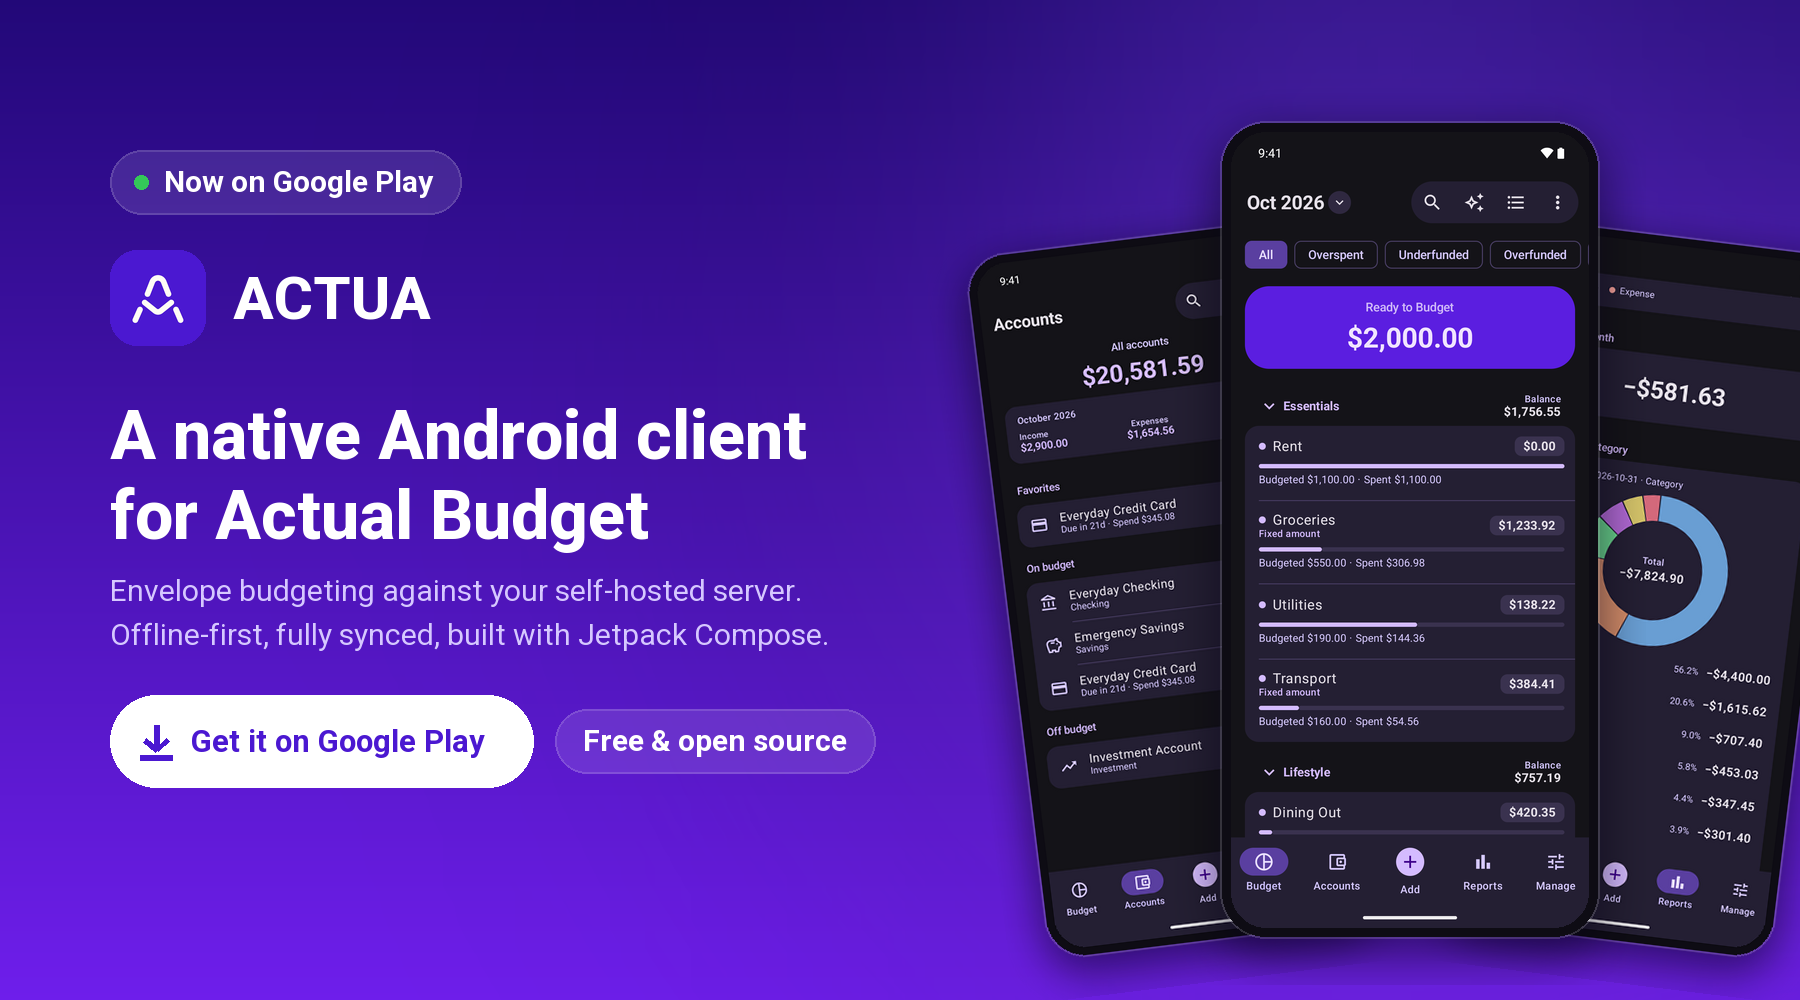
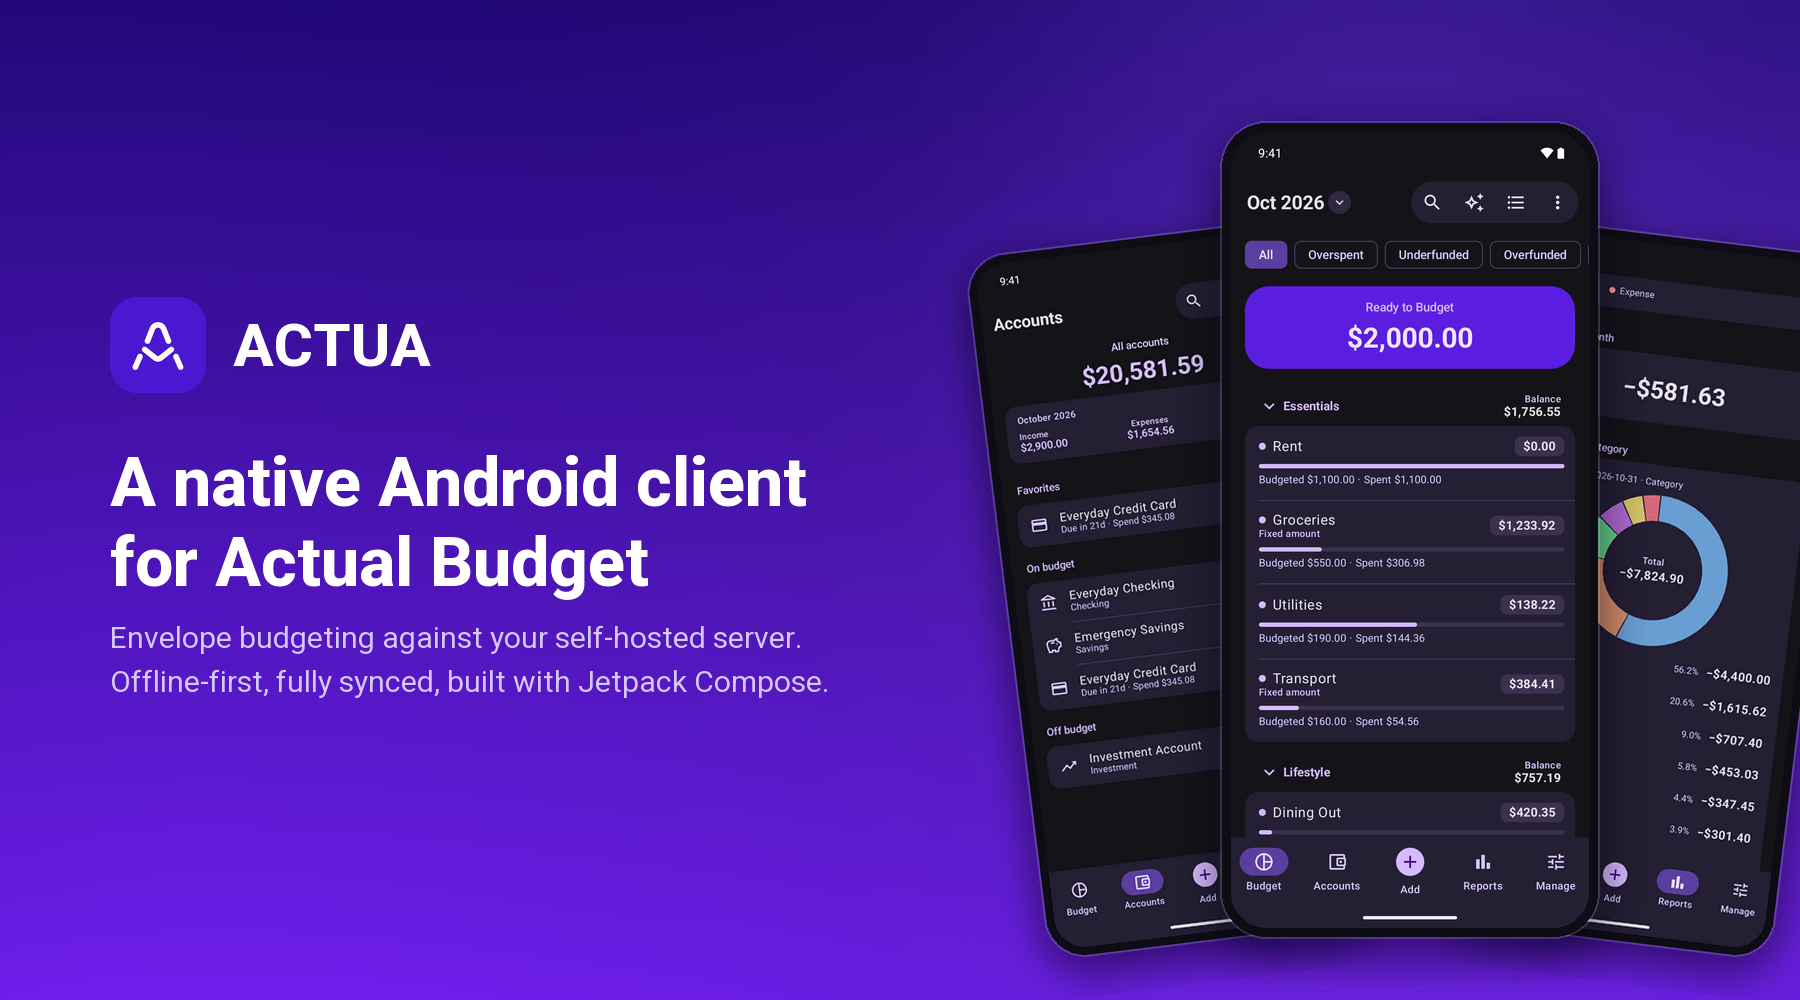
Remove the drawn Google Play buttons from the README hero
Both heroes drop the Now on Google Play pill and the Get it on Google
Play and Free & open source buttons, which looked clickable but only
opened the image, and re-centre the text. The README badge below stays
the download link.

Closes #1102

Claude-Session: https://claude.ai/code/session_01YG7CcTTT3gDkyXLjWa1XGV

Changed region(s): [[0.0622, 0.248, 0.4978, 0.806], [0.0622, 0.124, 0.28, 0.217]]

diff --git a/artwork/README.md b/artwork/README.md
@@ -14,7 +14,8 @@ safe zone.
 # Hero and screenshots
 
 `actua-hero.png` and `actua-hero-dark.png` are the README hero for GitHub's light
-and dark themes. `screenshots/light/` and `screenshots/dark/` hold framed 720 × 1280
+and dark themes. They carry no buttons or calls to action, since an image can't be tapped; the
+README's real Google Play badge sits below them. `screenshots/light/` and `screenshots/dark/` hold framed 720 × 1280
 screenshots of the same screens in each theme. All of them were captured from the
 built-in demo budget (Manage → Connection & Data → Try demo budget), so they contain
 no real financial data. Recapture them when the UI changes noticeably.

diff --git a/README.md b/README.md
@@ -5,7 +5,7 @@
 <p align="center">
   <picture>
     <source media="(prefers-color-scheme: dark)" srcset="artwork/actua-hero-dark.png">
-    <img src="artwork/actua-hero.png" alt="Actua, now on Google Play: phones showing the budget plan view, accounts and spending reports" width="900">
+    <img src="artwork/actua-hero.png" alt="Actua, a native Android client for Actual Budget: phones showing the budget plan view, accounts and spending reports" width="900">
   </picture>
 </p>
 
